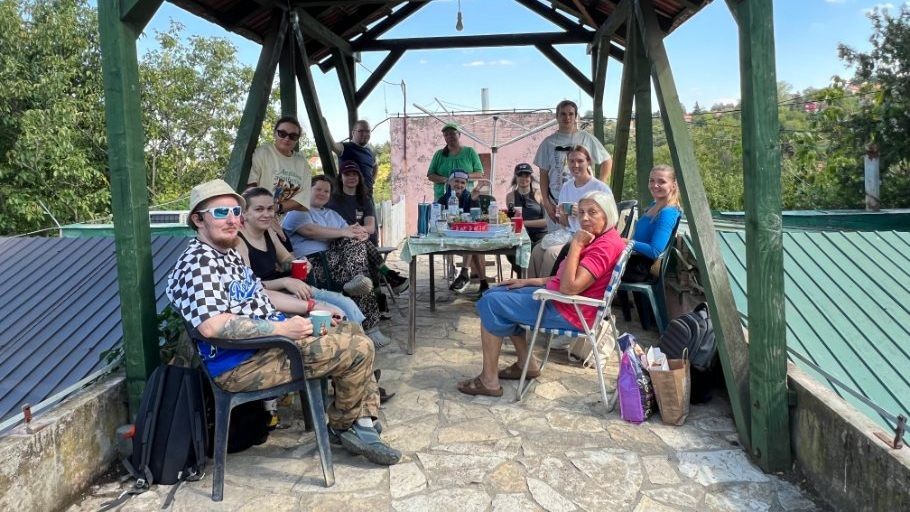
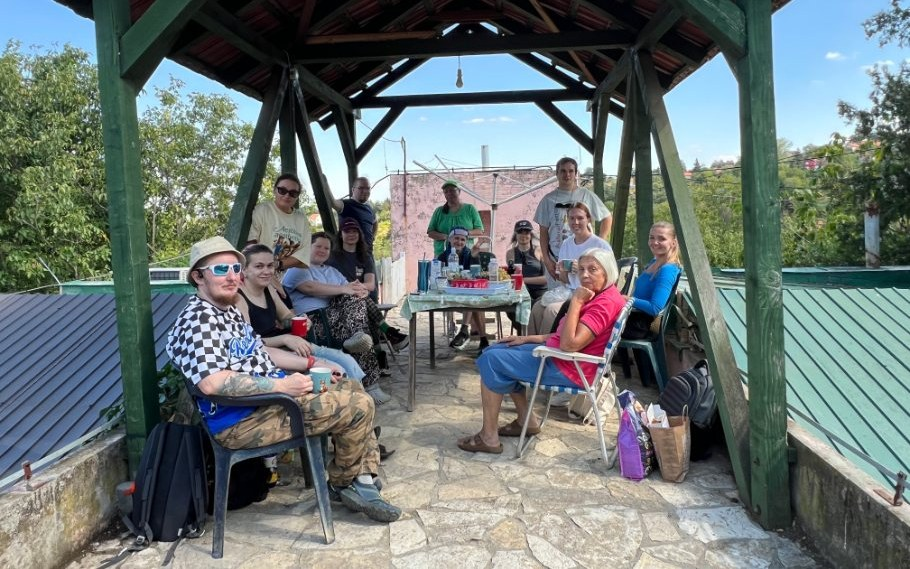
Add a photo to the guide page, make both page photos 16:10
The guide had an empty gap under the table of contents. The new photo
(three cats behind a fence) is cut to 16:10 because at 16:9 the lowest
cat's muzzle is lost. The home hero is re-cropped from its original to
the same ratio, and both share one CSS rule.

diff --git a/src/main/kotlin/org/proanima/shelter/views/GuideViews.kt b/src/main/kotlin/org/proanima/shelter/views/GuideViews.kt
@@ -10,6 +10,7 @@ import kotlinx.html.h1
 import kotlinx.html.h2
 import kotlinx.html.h3
 import kotlinx.html.id
+import kotlinx.html.img
 import kotlinx.html.li
 import kotlinx.html.nav
 import kotlinx.html.p
@@ -37,6 +38,7 @@ fun HTML.guidePage(locale: AppLocale, blocks: List<GuideBlock>, contentLang: Str
                         1 -> {
                             h1 { +block.text }
                             tableOfContents(blocks, messages.t("guide.toc"))
+                            img(src = "/images/home-guide.jpg", alt = messages.t("guide.photo.alt"), classes = "guide-photo")
                         }
                         2 -> h2 {
                             block.id?.let { id = it }

diff --git a/src/main/resources/static/styles/main.css b/src/main/resources/static/styles/main.css
@@ -804,11 +804,12 @@ main.page > section.next-visit {
     font-weight: 600;
 }
 
-/* The file is already cropped to 16:9 (see docs/design.md); the ratio only reserves the space before it loads. */
-.hero-photo {
+/* The files are already cropped to 16:10 (see docs/design.md); the ratio only reserves the space before they load. */
+.hero-photo,
+.guide-photo {
     display: block;
     width: 100%;
-    aspect-ratio: 16 / 9;
+    aspect-ratio: 16 / 10;
     margin-top: 32px;
     object-fit: cover;
     background: var(--color-surface);

diff --git a/docs/design.md b/docs/design.md
@@ -120,10 +120,13 @@ Running text (typesetting):
 Heading and lead (no links, no figures) → next visit → photo → cats looking for a home → how to join (four steps: the guide,
 the cats' chat, the dogs' chat, picking a visit; then the founder's quote) → how volunteers help (what they do with
 the cats and with the dogs, three points each) → about the shelter (the figures, nothing else: no links). Five sections after the hero; each one after the photo starts with a 1 px rule.
-The photo under the next-visit block is a 16:9 file, `data/images/home-hero.jpg` (910×512): the original (910×682, in git
-history at commit c845d70) cropped at its bottom edge, which removes the top 170 px of roof, because the group sits in the
+The photo under the next-visit block is a 16:10 file, `data/images/home-hero.jpg` (910×569): the original (910×682, in git
+history at commit c845d70) cropped at its bottom edge, which removes the top 113 px of roof, because the group sits in the
 lower part of the frame. The file itself is cropped, not the CSS, so the link preview (`og:image`) shows the same frame.
-A different photo should be cut to 16:9 the same way, at least 1440 px wide, with the faces checked after the crop.
+A different photo should be cut to 16:10 the same way, at least 1440 px wide, with the faces checked after the crop.
+The guide has one photo too, between the table of contents and the first section: `data/images/home-guide.jpg` (1440×900,
+three cats behind a wire fence). Both page photos are 16:10 and share one CSS rule (`.hero-photo`, `.guide-photo`): at 16:9 the
+lowest cat's muzzle on the guide photo is cut off, and the two pages should look alike.
 "How else to help" (donations, food, things, fostering) is for a different reader than the volunteer, so it has its own page,
 `/{lang}/help`, linked from the menu and from the footer; the donation link and the description of Svora live only there.
 The shelter's own news channels (Instagram, Telegram) are not on the home page; the footer has the Telegram channel.
